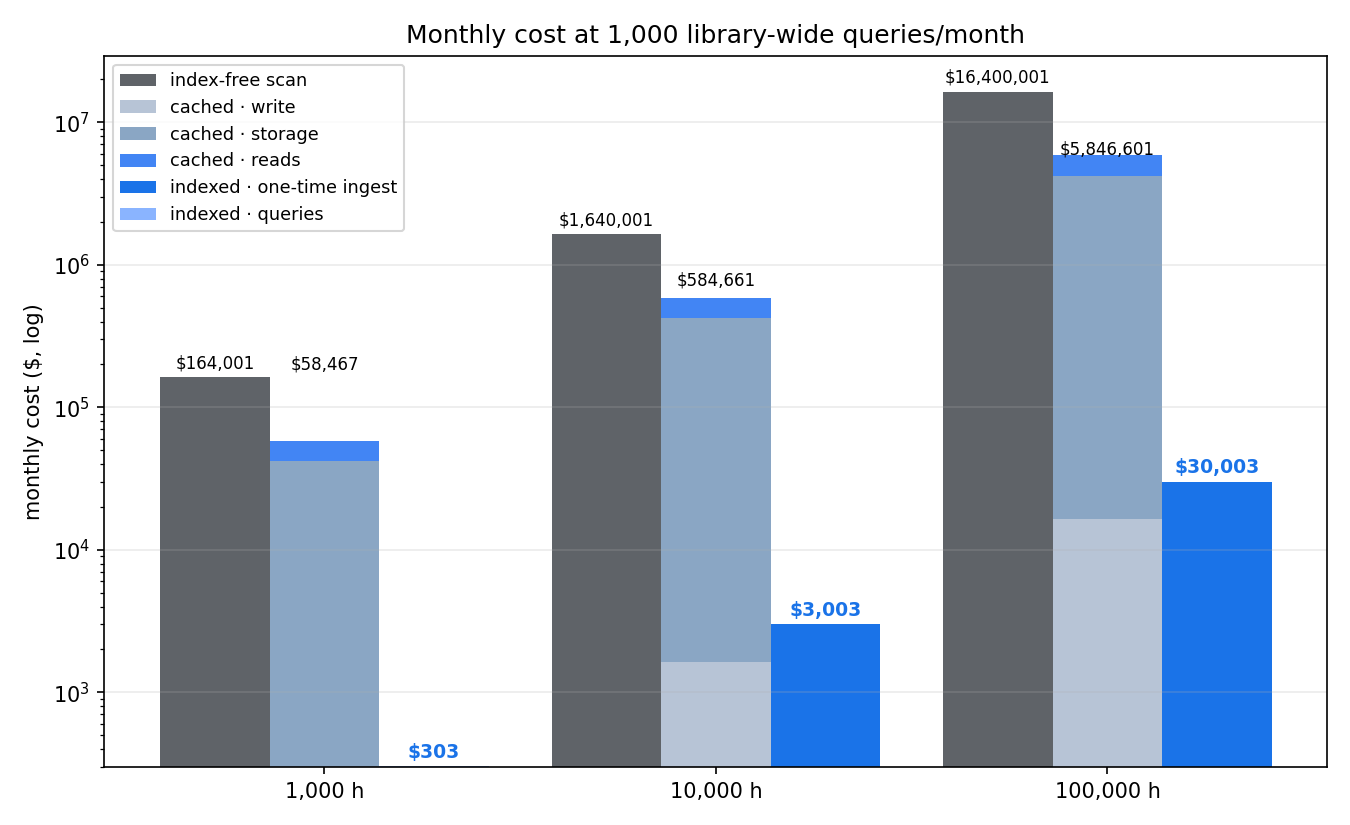
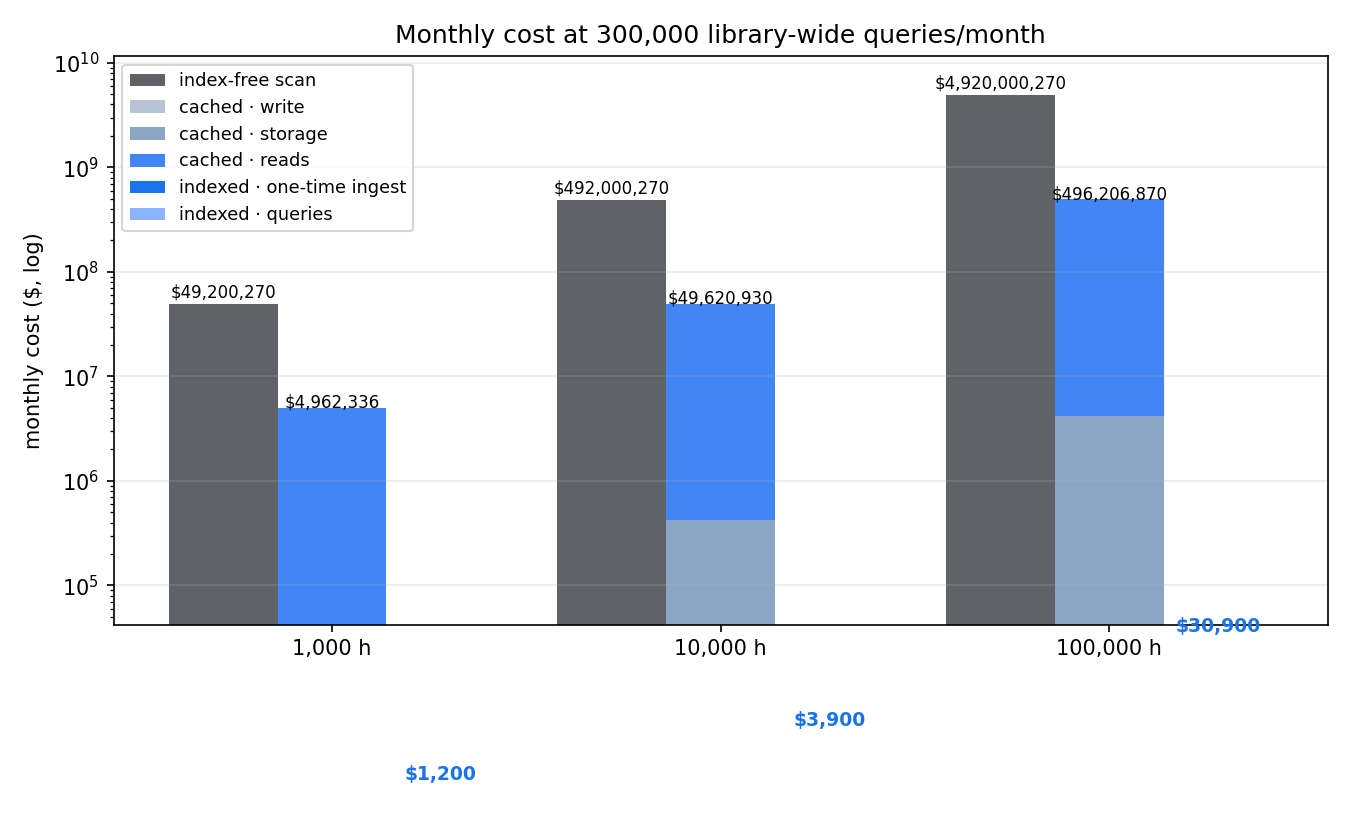
agentic-video: system-volume framing (MAM/CCTV query volumes, 300k queries/mo reference)

diff --git a/agentic-video/cost-model/build_nb.py b/agentic-video/cost-model/build_nb.py
@@ -43,7 +43,7 @@ GEM_CACHE_STORE = 0.175               # $/M tokens per hour held (flash tier)
 TOK_PER_VIDEO_HOUR = 328_000          # MEASURED (409,581 tok / 75 min -> 327,665; round)
 OUT_PER_QUERY = 300                   # output+thought tokens per answer (MEASURED 66-2,131 across receipts)
 VIDEO_HOURS = [1_000, 10_000, 100_000]
-QUERIES_PER_MONTH = 1_000
+QUERIES_PER_MONTH = 300_000           # system volume: MAM editorial search + CCTV agent scraping (~10k queries/day)
 HOLD_HOURS_PER_MONTH = 730            # cache held continuously
 
 INGEST_PER_VH = 0.30                  # INTERPOLATED — pending vendor figure
@@ -94,8 +94,9 @@ print("chart 1 saved")""")
 
 md("The indexed line is flat: per-query cost does not grow with library size. Both baselines scale linearly with hours (the cached one is ~10× cheaper than naive at any size but still grows). Storage changes the *fixed* side, not this chart — chart 3 shows it.")
 
-md("### 2. Monthly total vs queries/month (with break-evens)")
-code("""Q = np.logspace(0, 5, 150)
+md("### 2. Monthly cost vs query volume — the system-scale question")
+md("**Who queries an indexed library at volume?** A MAM: 50 editors x 200 searches/day = 300k queries/month. A CCTV/monitoring deployment: agents scraping the index continuously. App backends answering 'find the moment' for end users. At these volumes the per-query billing model - not the one-time ingest - decides feasibility.")
+code("""Q = np.logspace(0, 6, 200)
 fig, ax = plt.subplots(figsize=(9,5.5))
 colors = {1000:"#4285F4", 10000:"#34A853", 100000:"#FBBC04"}
 for h in VIDEO_HOURS:
@@ -105,7 +106,7 @@ for h in VIDEO_HOURS:
     ax.plot(Q, free_m,  lw=1.6, ls="--", color=colors[h], alpha=0.55)
     ax.plot(Q, cache_m, lw=1.6, ls=":",  color=colors[h], alpha=0.8)
     ax.plot(Q, idx_m,   lw=2.4, color=colors[h], label=f"indexed · {h:,} h")
-    ax.text(1.1, idx_m[40]*1.15, f"{h:,} h", fontsize=8, color=colors[h])
+    ax.text(1.1, idx_m[-1]*1.15, f"{h:,} h", fontsize=8, color=colors[h])
 for h in VIDEO_HOURS:
     qbe = (INGEST_PER_VH*h) / max(index_free_cost_per_query(h) - indexed_per_query(), 1e-9)
     ax.axvline(min(qbe, Q[-1]), color=colors[h], alpha=0.3, lw=1)
@@ -146,7 +147,16 @@ ax.set_xticks(xs); ax.set_xticklabels([f"{h:,} h" for h in VIDEO_HOURS])
 ax.set_ylabel("monthly cost ($, log)"); ax.set_title(f"Monthly cost at {QUERIES_PER_MONTH:,} library-wide queries/month")
 ax.legend(fontsize=8.5); ax.grid(axis="y", alpha=0.25)
 fig.tight_layout(); fig.savefig("charts/monthly-by-scale.png", dpi=150); plt.close(fig)
-print("chart 3 saved")""")
+print("chart 3 saved")
+
+h = 10_000; q = 300_000
+free = q * index_free_cost_per_query(h)
+cch = q * cached_read_per_query(h) + cached_storage_per_month(h) + cached_write_one_time(h)
+idx = q * indexed_per_query() + INGEST_PER_VH * h
+print(f"300k queries/mo on a {h:,} h library:")
+print(f"  index-free scan : ${free:,.0f}/mo")
+print(f"  cached baseline : ${cch:,.0f}/mo")
+print(f"  indexed pipeline: ${idx:,.0f}/mo  ->  {cch/idx:,.0f}x cheaper than cached, {free/idx:,.0f}x than scan")""")
 
 md("### 4. 12-month view on a 10,000-hour library (indexed left · cached right)")
 code("""h = 10_000
